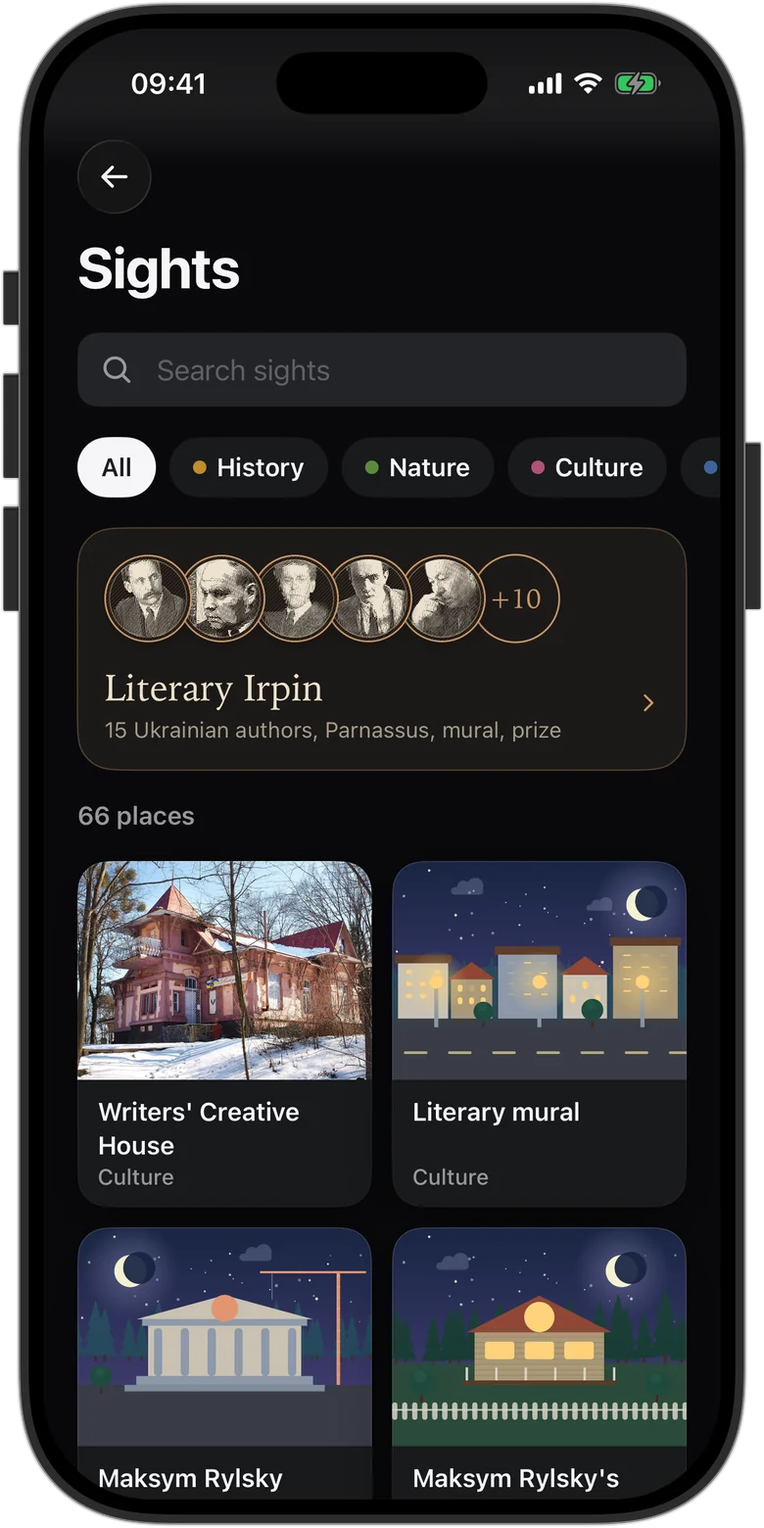
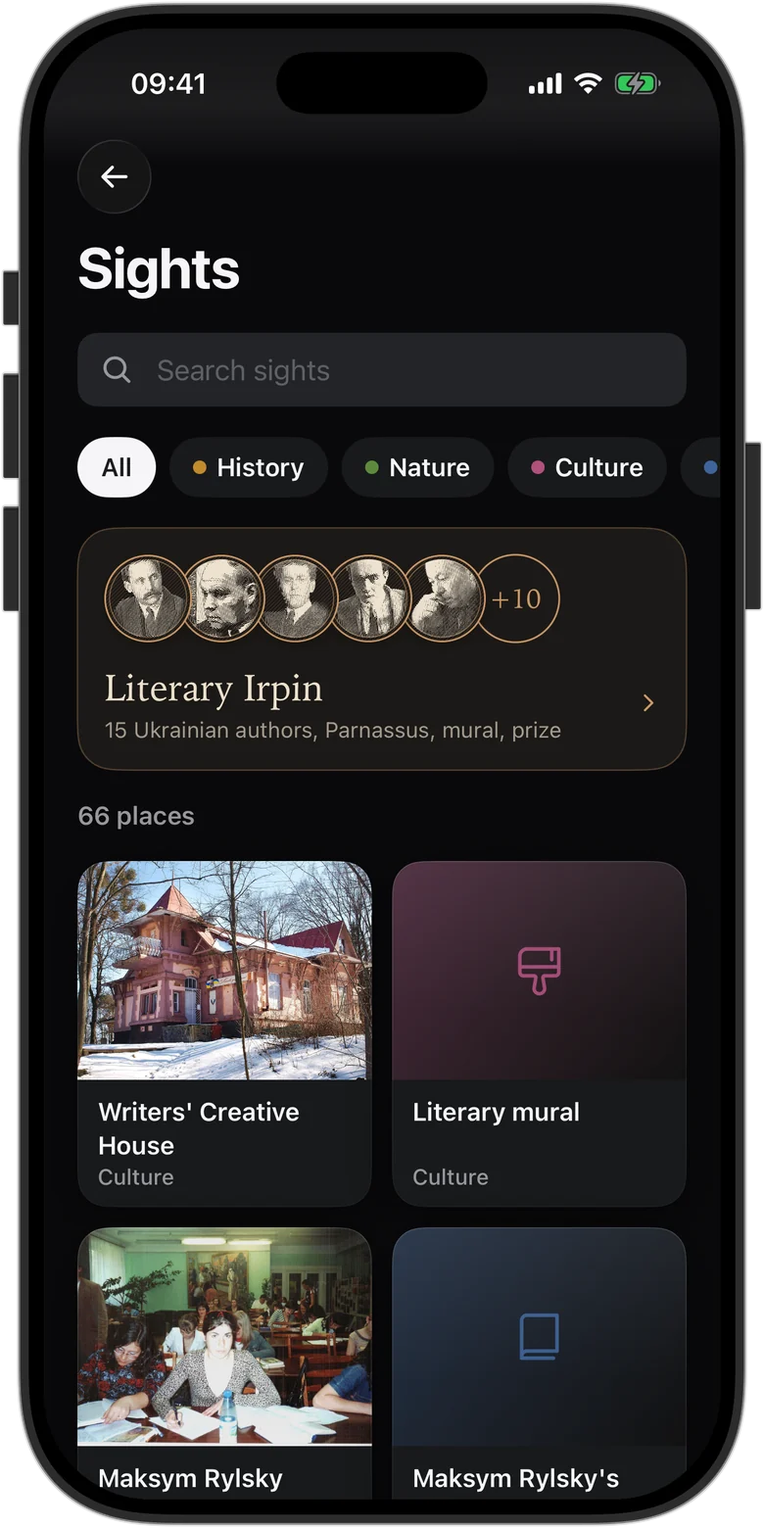
Irpin City page: replace the illustrated mural screen with a real-photo place page; refreshed sights

Changed region(s): [[0.0923, 0.8, 0.9231, 0.9538], [0.4923, 0.5538, 0.9231, 0.7077]]

diff --git a/irpin/uk/index.html b/irpin/uk/index.html
@@ -64,7 +64,7 @@
   </section>
   <ul class="facts"><li><b>451</b>місце на мапі</li><li><b>50</b>піших і веломаршрутів</li><li><b>72</b>номери телефонів</li><li><b>12</b>покрокових довідок про держпослуги</li><li><b>15</b>письменників із лонгридами</li><li><b>0</b>трекерів</li></ul>
   <section class="feature"><div class="pic"><img class="phone" src="/irpin/img/uk/today.webp" alt="Головна" width="780" height="1560" loading="lazy" decoding="async"></div><div class="txt"><p class="eyebrow">Головна</p><h2>Ваш ранок на одному екрані.</h2><p class="intro">Чотири живі віджети поверх нічної мапи Ірпеня: найближча електричка, наскільки людно в місті, найближче укриття й ваша черга світла. Під ними - що поруч із вами просто зараз.</p><dl><div><dt>Електричка</dt><dd>Відправлення до Києва з відліком і ціною, від 30 ₴. Один дотик відкриває бронювання.</dd></div><div><dt>Відчинені заклади</dt><dd>Скільки місць працює зараз і крива дня, з якої видно, коли в місті людно.</dd></div><div><dt>Найближче укриття</dt><dd>Відстань і адреса найближчого укриття та піший маршрут до нього.</dd></div><div><dt>Поруч</dt><dd>Найближчі аптека, банкомат, поштомат і відділення Нової пошти, питна вода.</dd></div></dl></div></section><section class="feature flip"><div class="pic"><img class="phone" src="/irpin/img/uk/map.webp" alt="Мапа" width="780" height="1560" loading="lazy" decoding="async"></div><div class="txt"><p class="eyebrow">Мапа</p><h2>Мапа, що показує лише те, що треба.</h2><p class="intro">Спокійна нічна мапа на OpenStreetMap і MapLibre. Будинки підняті за поверховістю, шари вмикаються й вимикаються, а вибране місце відкривається карткою, не залишаючи мапу.</p><dl><div><dt>Поверховість</dt><dd>Кожен будинок у 3D і в кольорі за кількістю поверхів, від 1 до 17 і вище.</dd></div><div><dt>Укриття й зупинки</dt><dd>Скупчення укриттів, зупинки маршруток і вокзал із відстанню від вас.</dd></div><div><dt>Відчинено зараз</dt><dd>Фільтр 451 закладу за категорією й тим, що працює цієї хвилини, або пошук за вулицею.</dd></div><div><dt>Ваш вигляд</dt><dd>Тема кольорів, густота підписів і тон будинків. Тайли зберігаються для роботи без зв&#x27;язку.</dd></div></dl></div></section><section class="feature pair"><div class="pic"><img class="phone" src="/irpin/img/uk/transport.webp" alt="Транспорт" width="780" height="1560" loading="lazy" decoding="async"><img class="phone second" src="/irpin/img/uk/route.webp" alt="Транспорт" width="780" height="1560" loading="lazy" decoding="async"></div><div class="txt"><p class="eyebrow">Транспорт</p><h2>Електрички й маршрутки з чесним часом.</h2><p class="intro">Чинні розклади, траси на мапі й оцінка часу до кожної зупинки. Оцінка спирається на середню швидкість рейсу й кількість зупинок, тож не обіцяє того, чого не дасть дорога.</p><dl><div><dt>Електрички</dt><dd>Відправлення з Ірпеня з відліком і нагадуваннями. Бронювання Укрзалізниці відкривається з Ірпенем, Києвом-Пасажирським і датою, уже заповненими.</dd></div><div><dt>Маршрутки</dt><dd>392, 395, 100, 6616 та інші до Києва, Бучі й Гостомеля: інтервал, ціна, довжина, зупинки й час у дорозі.</dd></div><div><dt>Зараз поруч</dt><dd>Найближча зупинка й найближчі відправлення з неї, без розкладу.</dd></div><div><dt>Метро Києва</dt><dd>Схема ліній і сповіщення про зміни руху, щоб знати до пересадки.</dd></div></dl></div></section><section class="feature flip"><div class="pic"><img class="phone" src="/irpin/img/uk/wallet.webp" alt="Гаманець і комуналка" width="780" height="1560" loading="lazy" decoding="async"></div><div class="txt"><p class="eyebrow">Гаманець і комуналка</p><h2>Папери вашого дому - в телефоні.</h2><p class="intro">Рахунки, лічильники й документи в одному місці, під Face ID і без відправлення будь-куди. Застосунок рахує, скільки ви винні цього місяця, з ваших показників і чинних тарифів міста.</p><dl><div><dt>Сума за місяць</dt><dd>Світло 4,32 ₴ за кВт·год (2,16 вночі), газ 7,96 ₴ за м³, вода й водовідведення 82,42 ₴ за м³, опалення й сміття.</dd></div><div><dt>Показники й оплати</dt><dd>Нагадування про вікно показників і строк оплати, журнал платежів і графік за пів року. Особові рахунки копіюються одним дотиком.</dd></div><div><dt>Документи</dt><dd>Паспорт, посвідчення водія, страховка: строки дії з нагадуваннями за 30, 7 і 1 день.</dd></div><div><dt>Дім і екстрена картка</dt><dd>Адреса, під&#x27;їзд, найближче укриття й поштомат; медична картка й контакти; авто зі строками страховки й техогляду.</dd></div></dl></div></section><section class="feature"><div class="pic"><img class="phone" src="/irpin/img/uk/services.webp" alt="Держпослуги" width="780" height="1560" loading="lazy" decoding="async"></div><div class="txt"><p class="eyebrow">Держпослуги</p><h2>Документи без здогадок.</h2><p class="intro">ЦНАП міста зі статусом роботи наживо й довідки про те, куди йти, що взяти й що можна зробити онлайн.</p><dl><div><dt>ЦНАП</dt><dd>Відчинено чи зачинено зараз і скільки до закриття, адреса, години й електронна черга.</dd></div><div><dt>12 життєвих ситуацій</dt><dd>Реєстрація, нерухомість, ФОП, народження дитини, статус ВПО, пенсія: установа, зал і телефон, перелік документів.</dd></div><div><dt>Довідник номерів</dt><dd>72 номери: екстрені служби, установи міста й комунальники, а також ваші власні. Кожен дзвінок просить підтвердження.</dd></div><div><dt>Місто</dt><dd>61 житловий комплекс із будинками, поверхами й під&#x27;їздами та тим, що поруч пішки.</dd></div></dl></div></section><section class="feature flip"><div class="pic"><img class="phone" src="/irpin/img/uk/nav.webp" alt="Прогулянки й велотраси" width="780" height="1560" loading="lazy" decoding="async"></div><div class="txt"><p class="eyebrow">Прогулянки й велотраси</p><h2>50 маршрутів із навігацією.</h2><p class="intro">47 прогулянок і 3 велотраси Ірпенем, уздовж річки й у ліс, з навігацією поворот за поворотом, що працює й на заблокованому екрані.</p><dl><div><dt>Перед виходом</dt><dd>Відстань, час, профіль висот, покриття й питна вода по дорозі.</dd></div><div><dt>У дорозі</dt><dd>Підказки про поворот із відстанню, голос за бажанням, скільки лишилось, час у дорозі й прибуття.</dd></div><div><dt>Експорт GPX</dt><dd>Будь-який маршрут - на годинник чи в інший застосунок.</dd></div><div><dt>Місця на маршруті</dt><dd>66 пам&#x27;яток із фото й короткою історією, пов&#x27;язаних між собою й з маршрутами.</dd></div></dl></div></section><section class="feature pair"><div class="pic"><img class="phone" src="/irpin/img/uk/writers.webp" alt="Літературний Ірпінь" width="780" height="1560" loading="lazy" decoding="async"><img class="phone second" src="/irpin/img/uk/writer.webp" alt="Літературний Ірпінь" width="780" height="1560" loading="lazy" decoding="async"></div><div class="txt"><p class="eyebrow">Літературний Ірпінь</p><h2>Місто, у якому писали класики.</h2><p class="intro">З 1936 року в Ірпені серед сосен діє Будинок творчості, де працювали Рильський, Тичина, Стельмах і Довженко. Застосунок розповідає про 15 письменників, які тут жили й писали, із джерелами.</p><dl><div><dt>Автор дня</dt><dd>Щодня новий ірпінський літератор на головному екрані: портрет-гравюра, підпис і перехід до його місця на мапі.</dd></div><div><dt>Лонгріди</dt><dd>Життєпис розділами про кожного з 15 письменників, цитата з джерелом і те, що пов&#x27;язує їх з Ірпенем.</dd></div><div><dt>Літературна прогулянка</dt><dd>Маршрут повз Будинок творчості, бібліотеку й мурал чотирнадцяти класиків, з місцями письменників по дорозі.</dd></div><div><dt>Віджети</dt><dd>Автор дня віджетом на головному екрані, у трьох розмірах.</dd></div></dl></div></section>
-  <section class="block tour-wrap"><h2>Придивитись ближче</h2><p class="intro">Кілька екранів докладно: що на них є і навіщо вони.</p><div class="tour"><article class="tour-card"><img class="phone" src="/irpin/img/uk/place-bridge.webp" alt="Місце з історією" width="780" height="1560" loading="lazy" decoding="async"><div><h3>Місце з історією</h3><p>Кожна пам&#x27;ятка має фото з ліцензією, головні факти й коротку історію. Ця розповідає, як у лютому 2022 року тисячі людей виходили з міста пішки під зруйнованими прольотами Романівського мосту. Підкреслені слова ведуть до сусідніх місць і маршрутів.</p></div></article><article class="tour-card"><img class="phone" src="/irpin/img/uk/place-mural.webp" alt="Один стіл, чотирнадцять класиків" width="780" height="1560" loading="lazy" decoding="async"><div><h3>Один стіл, чотирнадцять класиків</h3><p>Літературний мурал зображає 14 українських класиків за одним столом. Їхні імена в тексті - посилання: торкніться Олеся Гончара чи Ліни Костенко, і потрапите на їхні сторінки.</p></div></article><article class="tour-card"><img class="phone" src="/irpin/img/uk/place-station.webp" alt="Звідки почався Ірпінь" width="780" height="1560" loading="lazy" decoding="async"><div><h3>Звідки почався Ірпінь</h3><p>Місто виросло навколо залізничної зупинки наприкінці XIX століття. На сторінці - які міста на лінії, скільки йде електричка до Київ-Пасажирського (37-59 хвилин) і скільки коштує квиток, від 30 ₴.</p></div></article><article class="tour-card"><img class="phone" src="/irpin/img/uk/map-mural.webp" alt="Мапа й картка" width="780" height="1560" loading="lazy" decoding="async"><div><h3>Мапа й картка</h3><p>Торкніться місця, і знизу виїжджає картка з категорією, фото й відстанню, а мапа лишається на місці. Угорі - фільтри: усі заклади, відчинено, кава.</p></div></article><article class="tour-card"><img class="phone" src="/irpin/img/uk/route-395.webp" alt="Маршрутка без прикрас" width="780" height="1560" loading="lazy" decoding="async"><div><h3>Маршрутка без прикрас</h3><p>Інтервал, вартість, довжина, кількість зупинок і час у дорозі: застосунок рахує його за середньою швидкістю й одразу каже, що це оцінка. Маршрут і кожна зупинка намальовані на мапі.</p></div></article><article class="tour-card"><img class="phone" src="/irpin/img/uk/walk-literary.webp" alt="Прогулянка: Літературний Ірпінь" width="780" height="1560" loading="lazy" decoding="async"><div><h3>Прогулянка: Літературний Ірпінь</h3><p>2,2 км, близько 30 хвилин, легко. Маршрут веде від Будинку творчості через парк письменників на набережну. Профіль висот, пронумеровані місця на мапі й навігація поворот за поворотом.</p></div></article><article class="tour-card"><img class="phone" src="/irpin/img/uk/walk-battle.webp" alt="Прогулянка: Битва за Ірпінь" width="780" height="1560" loading="lazy" decoding="async"><div><h3>Прогулянка: Битва за Ірпінь</h3><p>Меморіальний маршрут повз місця, де в березні 2022 року тримали оборону Київщини: пам&#x27;ятний знак, танк Т-34 і братські могили. 1,5 км, близько 20 хвилин, із профілем висот.</p></div></article><article class="tour-card"><img class="phone" src="/irpin/img/uk/sights.webp" alt="66 пам&#x27;яток" width="780" height="1560" loading="lazy" decoding="async"><div><h3>66 пам&#x27;яток</h3><p>Фільтри за історією, природою чи культурою. Угорі - «Літературний Ірпінь»: 15 українських авторів, Парнас, мурал і премія. Кожна плитка відкриває місце з фото й історією.</p></div></article><article class="tour-card"><img class="phone" src="/irpin/img/uk/writer-stelmakh.webp" alt="Письменник, якого можна читати" width="780" height="1560" loading="lazy" decoding="async"><div><h3>Письменник, якого можна читати</h3><p>Портрет-гравюра, коротка довідка й лонгрід розділами. Михайло Стельмах, що народився в селі Дяківці, написав «Велику рідню» і «Правду і кривду» й жив в Ірпені з початку 1950-х до смерті.</p></div></article><article class="tour-card"><img class="phone" src="/irpin/img/uk/widgets.webp" alt="На головному екрані" width="780" height="1560" loading="lazy" decoding="async"><div><h3>На головному екрані</h3><p>Віджет «Автор дня» у трьох розмірах: портрет, ім&#x27;я, рядок про зв&#x27;язок з Ірпенем. Щодня новий письменник, а дотик відкриває його сторінку в застосунку.</p></div></article><article class="tour-card"><img class="phone" src="/irpin/img/uk/svc-city.webp" alt="Місто в цифрах" width="780" height="1560" loading="lazy" decoding="async"><div><h3>Місто в цифрах</h3><p>Населення, рік отримання статусу міста (1956), звання міста-героя (2022), райони та 61 житловий комплекс з пошуком і сортуванням: будинки, поверхи, під&#x27;їзди й що поруч пішки.</p></div></article><article class="tour-card"><img class="phone" src="/irpin/img/uk/svc-official.webp" alt="Держпослуги без здогадок" width="780" height="1560" loading="lazy" decoding="async"><div><h3>Держпослуги без здогадок</h3><p>Центр надання адміністративних послуг із живим статусом і кнопкою електронної черги. Нижче - життєві ситуації: прописка, нерухомість і земля, власна справа, народження дитини. Кожна каже, куди йти й що взяти.</p></div></article><article class="tour-card"><img class="phone" src="/irpin/img/uk/svc-phones.webp" alt="Довідник телефонів завжди під рукою" width="780" height="1560" loading="lazy" decoding="async"><div><h3>Довідник телефонів завжди під рукою</h3><p>72 номери: екстрені червоним угорі (112, 103, 102), далі міські служби, комунальники й ваші власні. Кожен дзвінок просить підтвердження, щоб не набрати випадково.</p></div></article><article class="tour-card"><img class="phone" src="/irpin/img/uk/svc-venues.webp" alt="451 місце в цифрах" width="780" height="1560" loading="lazy" decoding="async"><div><h3>451 місце в цифрах</h3><p>Заклади за категоріями з кількістю (кава 61, їжа 42, аптеки 53), скільки відчинено просто зараз і в скількох вказано години роботи. Дані - OpenStreetMap, і помилку можна виправити просто із застосунку.</p></div></article><article class="tour-card"><img class="phone" src="/irpin/img/uk/svc-trails.webp" alt="Маршрути за типом і відстанню" width="780" height="1560" loading="lazy" decoding="async"><div><h3>Маршрути за типом і відстанню</h3><p>20 км велодоріжок: 17 веломаршрутів і 33 піших. Фільтр за покриттям, велодоріжкою чи лісом або сортування за найближчими: кожна картка з мапою, довжиною й часом.</p></div></article></div></section>
+  <section class="block tour-wrap"><h2>Придивитись ближче</h2><p class="intro">Кілька екранів докладно: що на них є і навіщо вони.</p><div class="tour"><article class="tour-card"><img class="phone" src="/irpin/img/uk/place-bridge.webp" alt="Місце з історією" width="780" height="1560" loading="lazy" decoding="async"><div><h3>Місце з історією</h3><p>Кожна пам&#x27;ятка має фото з ліцензією, головні факти й коротку історію. Ця розповідає, як у лютому 2022 року тисячі людей виходили з міста пішки під зруйнованими прольотами Романівського мосту. Підкреслені слова ведуть до сусідніх місць і маршрутів.</p></div></article><article class="tour-card"><img class="phone" src="/irpin/img/uk/place-church.webp" alt="Справжні фото, з авторами" width="780" height="1560" loading="lazy" decoding="async"><div><h3>Справжні фото, з авторами</h3><p>Церкви, парки, пам&#x27;ятники й меморіали - з відкритими фотографіями з Вікісховища. Автора й ліцензію підписано просто на знімку, а нижче - адреса, громада та час від вас пішки, велосипедом і авто.</p></div></article><article class="tour-card"><img class="phone" src="/irpin/img/uk/place-station.webp" alt="Звідки почався Ірпінь" width="780" height="1560" loading="lazy" decoding="async"><div><h3>Звідки почався Ірпінь</h3><p>Місто виросло навколо залізничної зупинки наприкінці XIX століття. На сторінці - які міста на лінії, скільки йде електричка до Київ-Пасажирського (37-59 хвилин) і скільки коштує квиток, від 30 ₴.</p></div></article><article class="tour-card"><img class="phone" src="/irpin/img/uk/map-mural.webp" alt="Мапа й картка" width="780" height="1560" loading="lazy" decoding="async"><div><h3>Мапа й картка</h3><p>Торкніться місця, і знизу виїжджає картка з категорією, фото й відстанню, а мапа лишається на місці. Угорі - фільтри: усі заклади, відчинено, кава.</p></div></article><article class="tour-card"><img class="phone" src="/irpin/img/uk/route-395.webp" alt="Маршрутка без прикрас" width="780" height="1560" loading="lazy" decoding="async"><div><h3>Маршрутка без прикрас</h3><p>Інтервал, вартість, довжина, кількість зупинок і час у дорозі: застосунок рахує його за середньою швидкістю й одразу каже, що це оцінка. Маршрут і кожна зупинка намальовані на мапі.</p></div></article><article class="tour-card"><img class="phone" src="/irpin/img/uk/walk-literary.webp" alt="Прогулянка: Літературний Ірпінь" width="780" height="1560" loading="lazy" decoding="async"><div><h3>Прогулянка: Літературний Ірпінь</h3><p>2,2 км, близько 30 хвилин, легко. Маршрут веде від Будинку творчості через парк письменників на набережну. Профіль висот, пронумеровані місця на мапі й навігація поворот за поворотом.</p></div></article><article class="tour-card"><img class="phone" src="/irpin/img/uk/walk-battle.webp" alt="Прогулянка: Битва за Ірпінь" width="780" height="1560" loading="lazy" decoding="async"><div><h3>Прогулянка: Битва за Ірпінь</h3><p>Меморіальний маршрут повз місця, де в березні 2022 року тримали оборону Київщини: пам&#x27;ятний знак, танк Т-34 і братські могили. 1,5 км, близько 20 хвилин, із профілем висот.</p></div></article><article class="tour-card"><img class="phone" src="/irpin/img/uk/sights.webp" alt="66 пам&#x27;яток" width="780" height="1560" loading="lazy" decoding="async"><div><h3>66 пам&#x27;яток</h3><p>Фільтри за історією, природою чи культурою. Угорі - «Літературний Ірпінь»: 15 українських авторів, Парнас, мурал і премія. Кожна плитка відкриває місце з фото й історією.</p></div></article><article class="tour-card"><img class="phone" src="/irpin/img/uk/writer-stelmakh.webp" alt="Письменник, якого можна читати" width="780" height="1560" loading="lazy" decoding="async"><div><h3>Письменник, якого можна читати</h3><p>Портрет-гравюра, коротка довідка й лонгрід розділами. Михайло Стельмах, що народився в селі Дяківці, написав «Велику рідню» і «Правду і кривду» й жив в Ірпені з початку 1950-х до смерті.</p></div></article><article class="tour-card"><img class="phone" src="/irpin/img/uk/widgets.webp" alt="На головному екрані" width="780" height="1560" loading="lazy" decoding="async"><div><h3>На головному екрані</h3><p>Віджет «Автор дня» у трьох розмірах: портрет, ім&#x27;я, рядок про зв&#x27;язок з Ірпенем. Щодня новий письменник, а дотик відкриває його сторінку в застосунку.</p></div></article><article class="tour-card"><img class="phone" src="/irpin/img/uk/svc-city.webp" alt="Місто в цифрах" width="780" height="1560" loading="lazy" decoding="async"><div><h3>Місто в цифрах</h3><p>Населення, рік отримання статусу міста (1956), звання міста-героя (2022), райони та 61 житловий комплекс з пошуком і сортуванням: будинки, поверхи, під&#x27;їзди й що поруч пішки.</p></div></article><article class="tour-card"><img class="phone" src="/irpin/img/uk/svc-official.webp" alt="Держпослуги без здогадок" width="780" height="1560" loading="lazy" decoding="async"><div><h3>Держпослуги без здогадок</h3><p>Центр надання адміністративних послуг із живим статусом і кнопкою електронної черги. Нижче - життєві ситуації: прописка, нерухомість і земля, власна справа, народження дитини. Кожна каже, куди йти й що взяти.</p></div></article><article class="tour-card"><img class="phone" src="/irpin/img/uk/svc-phones.webp" alt="Довідник телефонів завжди під рукою" width="780" height="1560" loading="lazy" decoding="async"><div><h3>Довідник телефонів завжди під рукою</h3><p>72 номери: екстрені червоним угорі (112, 103, 102), далі міські служби, комунальники й ваші власні. Кожен дзвінок просить підтвердження, щоб не набрати випадково.</p></div></article><article class="tour-card"><img class="phone" src="/irpin/img/uk/svc-venues.webp" alt="451 місце в цифрах" width="780" height="1560" loading="lazy" decoding="async"><div><h3>451 місце в цифрах</h3><p>Заклади за категоріями з кількістю (кава 61, їжа 42, аптеки 53), скільки відчинено просто зараз і в скількох вказано години роботи. Дані - OpenStreetMap, і помилку можна виправити просто із застосунку.</p></div></article><article class="tour-card"><img class="phone" src="/irpin/img/uk/svc-trails.webp" alt="Маршрути за типом і відстанню" width="780" height="1560" loading="lazy" decoding="async"><div><h3>Маршрути за типом і відстанню</h3><p>20 км велодоріжок: 17 веломаршрутів і 33 піших. Фільтр за покриттям, велодоріжкою чи лісом або сортування за найближчими: кожна картка з мапою, довжиною й часом.</p></div></article></div></section>
   <section class="band"><h2>Тривоги й світло</h2><div class="cols"><div><h3>Повітряна тривога</h3><p>Стан у громаді Ірпеня, сповіщення про тривогу й відбій, найближче укриття з маршрутом і скільки тривали тривоги сьогодні й останніми тижнями. Сповіщення - лише зручність: завжди орієнтуйтесь на сирени.</p></div><div><h3>Відключення світла</h3><p>Графік ДТЕК Київщини для вашої підчерги, від 1.1 до 6.2. Оголошені відключення на сьогодні й завтра, тижневий шаблон можливих, 48 півгодинних слотів і нагадування за 30 хвилин до вимкнення.</p></div></div></section>
   <section class="block gallery-wrap"><h2>Екрани</h2><div class="gallery"><figure><img class="phone" src="/irpin/img/uk/today.webp" alt="Головна" width="780" height="1560" loading="lazy" decoding="async"><figcaption>Головна</figcaption></figure><figure><img class="phone" src="/irpin/img/uk/map.webp" alt="Мапа" width="780" height="1560" loading="lazy" decoding="async"><figcaption>Мапа</figcaption></figure><figure><img class="phone" src="/irpin/img/uk/transport.webp" alt="Транспорт" width="780" height="1560" loading="lazy" decoding="async"><figcaption>Транспорт</figcaption></figure><figure><img class="phone" src="/irpin/img/uk/route.webp" alt="Маршрутка" width="780" height="1560" loading="lazy" decoding="async"><figcaption>Маршрутка</figcaption></figure><figure><img class="phone" src="/irpin/img/uk/wallet.webp" alt="Гаманець" width="780" height="1560" loading="lazy" decoding="async"><figcaption>Гаманець</figcaption></figure><figure><img class="phone" src="/irpin/img/uk/services.webp" alt="Послуги" width="780" height="1560" loading="lazy" decoding="async"><figcaption>Послуги</figcaption></figure><figure><img class="phone" src="/irpin/img/uk/nav.webp" alt="Навігація" width="780" height="1560" loading="lazy" decoding="async"><figcaption>Навігація</figcaption></figure><figure><img class="phone" src="/irpin/img/uk/writers.webp" alt="Літературний Ірпінь" width="780" height="1560" loading="lazy" decoding="async"><figcaption>Літературний Ірпінь</figcaption></figure><figure><img class="phone" src="/irpin/img/uk/writer.webp" alt="Письменник" width="780" height="1560" loading="lazy" decoding="async"><figcaption>Письменник</figcaption></figure><figure><img class="phone" src="/irpin/img/uk/place.webp" alt="Місце" width="780" height="1560" loading="lazy" decoding="async"><figcaption>Місце</figcaption></figure></div></section>
   <section class="block"><h2>Приватність за задумом</h2><div class="cols cols3"><div><h3>Без акаунтів</h3><p>Входити нікуди не треба. Застосунок працює без реєстрації.</p></div><div><h3>Дані лишаються на телефоні</h3><p>Документи, лічильники, адреса й екстрена картка нікуди не надсилаються. Розробник їх не бачить.</p></div><div><h3>Без реклами й стеження</h3><p>Без аналітики, рекламних ідентифікаторів і сторонніх трекерів.</p></div></div></section>

diff --git a/irpin/index.html b/irpin/index.html
@@ -64,7 +64,7 @@
   </section>
   <ul class="facts"><li><b>451</b>venues and offices on the map</li><li><b>50</b>walking and bike routes</li><li><b>72</b>phone numbers</li><li><b>12</b>step-by-step public service guides</li><li><b>15</b>writers with long reads</li><li><b>0</b>trackers</li></ul>
   <section class="feature"><div class="pic"><img class="phone" src="/irpin/img/en/today.webp" alt="Home screen" width="780" height="1560" loading="lazy" decoding="async"></div><div class="txt"><p class="eyebrow">Home screen</p><h2>Your morning, on one screen.</h2><p class="intro">Four live widgets over a night map of Irpin: the next train, how busy the town is, the nearest shelter and your power queue. Below them is what is close to you right now.</p><dl><div><dt>Next train</dt><dd>Departure to Kyiv with a countdown and the fare, from 30 ₴. One tap opens the booking.</dd></div><div><dt>Open venues</dt><dd>How many places are open now, with a curve of the day that shows when the town gets busy.</dd></div><div><dt>Nearest shelter</dt><dd>Distance and address of the closest shelter, and the walking route to it.</dd></div><div><dt>Nearby</dt><dd>The closest pharmacy, ATM, Nova Poshta locker and branch, and drinking water.</dd></div></dl></div></section><section class="feature flip"><div class="pic"><img class="phone" src="/irpin/img/en/map.webp" alt="Map" width="780" height="1560" loading="lazy" decoding="async"></div><div class="txt"><p class="eyebrow">Map</p><h2>A map that shows only what you ask for.</h2><p class="intro">A quiet night map built on OpenStreetMap and MapLibre. Buildings are raised by floor count, layers switch on and off, and a selected place opens in a card without leaving the map.</p><dl><div><dt>Building heights</dt><dd>Every building in 3D and coloured by its number of floors, from 1 to 17 and above.</dd></div><div><dt>Shelters and stops</dt><dd>Shelter clusters, minibus stops and the station, with the distance from you.</dd></div><div><dt>Open now</dt><dd>Filter 451 venues by category and by what is open at this minute, or search by street.</dd></div><div><dt>Your style</dt><dd>Colour theme, label density and building tone. Tiles are cached for use without a connection.</dd></div></dl></div></section><section class="feature pair"><div class="pic"><img class="phone" src="/irpin/img/en/transport.webp" alt="Transport" width="780" height="1560" loading="lazy" decoding="async"><img class="phone second" src="/irpin/img/en/route.webp" alt="Transport" width="780" height="1560" loading="lazy" decoding="async"></div><div class="txt"><p class="eyebrow">Transport</p><h2>Trains and minibuses, with honest times.</h2><p class="intro">Current timetables, routes drawn on the map and a time estimate for every stop. The estimate uses the average trip speed and the number of stops, so it does not promise what the road cannot give.</p><dl><div><dt>Trains</dt><dd>Departures from Irpin with a countdown and reminders. The Ukrzaliznytsia booking opens with Irpin, Kyiv-Pasazhyrskyi and the date already filled in.</dd></div><div><dt>Minibuses</dt><dd>392, 395, 100, 6616 and other routes to Kyiv, Bucha and Hostomel: interval, fare, length, stops and travel time.</dd></div><div><dt>Near you now</dt><dd>The closest stop and the next departures from it, without opening a timetable.</dd></div><div><dt>Kyiv metro</dt><dd>The line map and service-change notices, so you know before you transfer.</dd></div></dl></div></section><section class="feature flip"><div class="pic"><img class="phone" src="/irpin/img/en/wallet.webp" alt="Wallet and utilities" width="780" height="1560" loading="lazy" decoding="async"></div><div class="txt"><p class="eyebrow">Wallet and utilities</p><h2>Your home’s paperwork, on the phone.</h2><p class="intro">Bills, meters and documents in one place, locked with Face ID and never sent anywhere. The app works out what you owe this month from your readings and the town’s current tariffs.</p><dl><div><dt>Utility estimate</dt><dd>Electricity 4.32 ₴ per kWh (2.16 at night), gas 7.96 ₴ per m³, water and sewerage 82.42 ₴ per m³, heating and waste.</dd></div><div><dt>Readings and payments</dt><dd>Reminders for the reading window and the payment deadline, a payment log and a six-month chart. Account numbers copy in one tap.</dd></div><div><dt>Documents</dt><dd>Passport, driving licence, insurance: expiry dates with reminders 30, 7 and 1 day before.</dd></div><div><dt>Home and emergency card</dt><dd>Address, entrance, nearest shelter and parcel locker; a medical card and contacts; cars with insurance and inspection dates.</dd></div></dl></div></section><section class="feature"><div class="pic"><img class="phone" src="/irpin/img/en/services.webp" alt="Public services" width="780" height="1560" loading="lazy" decoding="async"></div><div class="txt"><p class="eyebrow">Public services</p><h2>Paperwork without guessing.</h2><p class="intro">The town’s service centre with its live status, and guides that say where to go, what to bring and what can be done online.</p><dl><div><dt>Service centre</dt><dd>Open or closed right now and how long until closing, the address, hours and the online queue.</dd></div><div><dt>12 life situations</dt><dd>Registration, property, sole trader, birth of a child, IDP status, pension: the office, hall and phone, and a document checklist.</dd></div><div><dt>Phone book</dt><dd>72 numbers: emergency services, town offices and utilities, plus your own. Every call asks for confirmation.</dd></div><div><dt>The town</dt><dd>61 residential complexes with buildings, floors and entrances, and what is within walking distance.</dd></div></dl></div></section><section class="feature flip"><div class="pic"><img class="phone" src="/irpin/img/en/nav.webp" alt="Walks and bike routes" width="780" height="1560" loading="lazy" decoding="async"></div><div class="txt"><p class="eyebrow">Walks and bike routes</p><h2>50 routes, with navigation.</h2><p class="intro">47 walks and 3 bike routes through Irpin, along the river and into the forest, with turn-by-turn guidance that keeps working with the screen locked.</p><dl><div><dt>Before you go</dt><dd>Distance, time, elevation profile, surface and drinking water on the way.</dd></div><div><dt>On the way</dt><dd>Turn prompts with distance, optional voice, the distance left, time on the way and arrival.</dd></div><div><dt>GPX export</dt><dd>Send any route to a watch or another app.</dd></div><div><dt>Places on the route</dt><dd>66 sights with photos and short histories, linked to each other and to the routes.</dd></div></dl></div></section><section class="feature pair"><div class="pic"><img class="phone" src="/irpin/img/en/writers.webp" alt="Literary Irpin" width="780" height="1560" loading="lazy" decoding="async"><img class="phone second" src="/irpin/img/en/writer.webp" alt="Literary Irpin" width="780" height="1560" loading="lazy" decoding="async"></div><div class="txt"><p class="eyebrow">Literary Irpin</p><h2>The town the classics wrote in.</h2><p class="intro">From 1936 Irpin had a House of Creativity among the pines, where Rylsky, Tychyna, Stelmakh and Dovzhenko worked. The app tells the story of 15 writers who lived and wrote here, with sources.</p><dl><div><dt>Writer of the day</dt><dd>A new Irpin writer every day on the home screen, with a portrait engraving, a tagline and a link to their place on the map.</dd></div><div><dt>Long reads</dt><dd>A life story in chapters for each of the 15 writers, a quote with its source, and what connects them to Irpin.</dd></div><div><dt>A literary walk</dt><dd>A route past the House of Creativity, the library and the mural of fourteen classics, with the writers’ places on the way.</dd></div><div><dt>Widgets</dt><dd>Writer of the day as a home-screen widget, in three sizes.</dd></div></dl></div></section>
-  <section class="block tour-wrap"><h2>A closer look</h2><p class="intro">A few screens in detail: what is on them and why they are there.</p><div class="tour"><article class="tour-card"><img class="phone" src="/irpin/img/en/place-bridge.webp" alt="A place, with its story" width="780" height="1560" loading="lazy" decoding="async"><div><h3>A place, with its story</h3><p>Every sight has a photo with its licence, facts at a glance and a short history. This one tells how, in February 2022, thousands of people left the town on foot under the ruined spans of the Romanivka Bridge. The underlined words lead to nearby places and routes.</p></div></article><article class="tour-card"><img class="phone" src="/irpin/img/en/place-mural.webp" alt="One table, fourteen classics" width="780" height="1560" loading="lazy" decoding="async"><div><h3>One table, fourteen classics</h3><p>The literary mural shows 14 Ukrainian classics at one table. Their names in the text are links: tap Oles Honchar or Lina Kostenko and you land on their pages.</p></div></article><article class="tour-card"><img class="phone" src="/irpin/img/en/place-station.webp" alt="Where Irpin began" width="780" height="1560" loading="lazy" decoding="async"><div><h3>Where Irpin began</h3><p>The town grew up around a railway stop in the late 19th century. The page says which towns lie on the line, how long the train to Kyiv-Pasazhyrskyi takes (37-59 minutes) and what a ticket costs, from 30 ₴.</p></div></article><article class="tour-card"><img class="phone" src="/irpin/img/en/map-mural.webp" alt="The map and a card" width="780" height="1560" loading="lazy" decoding="async"><div><h3>The map and a card</h3><p>Tap a place and a card slides up from below, with its category, photo and distance, and the map stays where it was. Filters across the top: all venues, open now, coffee.</p></div></article><article class="tour-card"><img class="phone" src="/irpin/img/en/route-395.webp" alt="A minibus route, honestly" width="780" height="1560" loading="lazy" decoding="async"><div><h3>A minibus route, honestly</h3><p>Interval, fare, length, number of stops and the travel time, which the app calculates from average speed and says outright that it is an estimate. The route and every stop are drawn on the map.</p></div></article><article class="tour-card"><img class="phone" src="/irpin/img/en/walk-literary.webp" alt="A walk: Literary Irpin" width="780" height="1560" loading="lazy" decoding="async"><div><h3>A walk: Literary Irpin</h3><p>2.2 km, about 30 minutes, easy. The route runs from the House of Creativity through the writers’ park to the embankment. An elevation profile, numbered places on the map and turn-by-turn guidance.</p></div></article><article class="tour-card"><img class="phone" src="/irpin/img/en/walk-battle.webp" alt="A walk: the Battle for Irpin" width="780" height="1560" loading="lazy" decoding="async"><div><h3>A walk: the Battle for Irpin</h3><p>A memorial route past the places where the defence of Kyiv Oblast was held in March 2022: the memorial sign, the T-34 tank and the mass graves. 1.5 km, about 20 minutes, with an elevation profile.</p></div></article><article class="tour-card"><img class="phone" src="/irpin/img/en/sights.webp" alt="66 sights" width="780" height="1560" loading="lazy" decoding="async"><div><h3>66 sights</h3><p>Filter by history, nature or culture. At the top is Literary Irpin: 15 Ukrainian authors, Parnassus, the mural and the prize. Each tile opens a place with a photo and a story.</p></div></article><article class="tour-card"><img class="phone" src="/irpin/img/en/writer-stelmakh.webp" alt="A writer you can read" width="780" height="1560" loading="lazy" decoding="async"><div><h3>A writer you can read</h3><p>A portrait engraving, a short bio and a long read in chapters. Mykhailo Stelmakh, born in the village of Diakivtsi, wrote “The Great Family” and “Truth and Falsehood” and lived in Irpin from the early 1950s until his death.</p></div></article><article class="tour-card"><img class="phone" src="/irpin/img/en/widgets.webp" alt="On the home screen" width="780" height="1560" loading="lazy" decoding="async"><div><h3>On the home screen</h3><p>The Writer of the Day widget in three sizes: a portrait, a name, a line about their link to Irpin. A new writer every day, and a tap opens their page in the app.</p></div></article><article class="tour-card"><img class="phone" src="/irpin/img/en/svc-city.webp" alt="The town in numbers" width="780" height="1560" loading="lazy" decoding="async"><div><h3>The town in numbers</h3><p>Population, the year Irpin became a town (1956), the Hero City title (2022), the districts, and 61 residential complexes you can search and sort, each with buildings, floors, entrances and what is within walking distance.</p></div></article><article class="tour-card"><img class="phone" src="/irpin/img/en/svc-official.webp" alt="Public services, without guessing" width="780" height="1560" loading="lazy" decoding="async"><div><h3>Public services, without guessing</h3><p>The service centre with its live status and an online queue button. Below it, life situations: registration, property and land, your own business, the birth of a child. Each one says where to go and what to bring.</p></div></article><article class="tour-card"><img class="phone" src="/irpin/img/en/svc-phones.webp" alt="A phone book that is always at hand" width="780" height="1560" loading="lazy" decoding="async"><div><h3>A phone book that is always at hand</h3><p>72 numbers: the emergency ones in red at the top (112, 103, 102), then town offices and utilities, and your own. Every call asks for confirmation, so you do not ring by accident.</p></div></article><article class="tour-card"><img class="phone" src="/irpin/img/en/svc-venues.webp" alt="451 places in numbers" width="780" height="1560" loading="lazy" decoding="async"><div><h3>451 places in numbers</h3><p>Venues by category with counts (coffee 61, food 42, pharmacies 53), how many are open right now and how many have published opening hours. The data is OpenStreetMap, and you can correct it from the app.</p></div></article><article class="tour-card"><img class="phone" src="/irpin/img/en/svc-trails.webp" alt="Routes by type and distance" width="780" height="1560" loading="lazy" decoding="async"><div><h3>Routes by type and distance</h3><p>20 km of cycle paths: 17 bike routes and 33 on foot. Filter by surface, cycle path or forest, or sort by the nearest: each card has a map, length and time.</p></div></article></div></section>
+  <section class="block tour-wrap"><h2>A closer look</h2><p class="intro">A few screens in detail: what is on them and why they are there.</p><div class="tour"><article class="tour-card"><img class="phone" src="/irpin/img/en/place-bridge.webp" alt="A place, with its story" width="780" height="1560" loading="lazy" decoding="async"><div><h3>A place, with its story</h3><p>Every sight has a photo with its licence, facts at a glance and a short history. This one tells how, in February 2022, thousands of people left the town on foot under the ruined spans of the Romanivka Bridge. The underlined words lead to nearby places and routes.</p></div></article><article class="tour-card"><img class="phone" src="/irpin/img/en/place-church.webp" alt="Real photos, with their authors" width="780" height="1560" loading="lazy" decoding="async"><div><h3>Real photos, with their authors</h3><p>Churches, parks, monuments and memorials come with open photographs from Wikimedia Commons. The author and the licence are printed on the picture, and below are the address, the community and the time from you on foot, by bike and by car.</p></div></article><article class="tour-card"><img class="phone" src="/irpin/img/en/place-station.webp" alt="Where Irpin began" width="780" height="1560" loading="lazy" decoding="async"><div><h3>Where Irpin began</h3><p>The town grew up around a railway stop in the late 19th century. The page says which towns lie on the line, how long the train to Kyiv-Pasazhyrskyi takes (37-59 minutes) and what a ticket costs, from 30 ₴.</p></div></article><article class="tour-card"><img class="phone" src="/irpin/img/en/map-mural.webp" alt="The map and a card" width="780" height="1560" loading="lazy" decoding="async"><div><h3>The map and a card</h3><p>Tap a place and a card slides up from below, with its category, photo and distance, and the map stays where it was. Filters across the top: all venues, open now, coffee.</p></div></article><article class="tour-card"><img class="phone" src="/irpin/img/en/route-395.webp" alt="A minibus route, honestly" width="780" height="1560" loading="lazy" decoding="async"><div><h3>A minibus route, honestly</h3><p>Interval, fare, length, number of stops and the travel time, which the app calculates from average speed and says outright that it is an estimate. The route and every stop are drawn on the map.</p></div></article><article class="tour-card"><img class="phone" src="/irpin/img/en/walk-literary.webp" alt="A walk: Literary Irpin" width="780" height="1560" loading="lazy" decoding="async"><div><h3>A walk: Literary Irpin</h3><p>2.2 km, about 30 minutes, easy. The route runs from the House of Creativity through the writers’ park to the embankment. An elevation profile, numbered places on the map and turn-by-turn guidance.</p></div></article><article class="tour-card"><img class="phone" src="/irpin/img/en/walk-battle.webp" alt="A walk: the Battle for Irpin" width="780" height="1560" loading="lazy" decoding="async"><div><h3>A walk: the Battle for Irpin</h3><p>A memorial route past the places where the defence of Kyiv Oblast was held in March 2022: the memorial sign, the T-34 tank and the mass graves. 1.5 km, about 20 minutes, with an elevation profile.</p></div></article><article class="tour-card"><img class="phone" src="/irpin/img/en/sights.webp" alt="66 sights" width="780" height="1560" loading="lazy" decoding="async"><div><h3>66 sights</h3><p>Filter by history, nature or culture. At the top is Literary Irpin: 15 Ukrainian authors, Parnassus, the mural and the prize. Each tile opens a place with a photo and a story.</p></div></article><article class="tour-card"><img class="phone" src="/irpin/img/en/writer-stelmakh.webp" alt="A writer you can read" width="780" height="1560" loading="lazy" decoding="async"><div><h3>A writer you can read</h3><p>A portrait engraving, a short bio and a long read in chapters. Mykhailo Stelmakh, born in the village of Diakivtsi, wrote “The Great Family” and “Truth and Falsehood” and lived in Irpin from the early 1950s until his death.</p></div></article><article class="tour-card"><img class="phone" src="/irpin/img/en/widgets.webp" alt="On the home screen" width="780" height="1560" loading="lazy" decoding="async"><div><h3>On the home screen</h3><p>The Writer of the Day widget in three sizes: a portrait, a name, a line about their link to Irpin. A new writer every day, and a tap opens their page in the app.</p></div></article><article class="tour-card"><img class="phone" src="/irpin/img/en/svc-city.webp" alt="The town in numbers" width="780" height="1560" loading="lazy" decoding="async"><div><h3>The town in numbers</h3><p>Population, the year Irpin became a town (1956), the Hero City title (2022), the districts, and 61 residential complexes you can search and sort, each with buildings, floors, entrances and what is within walking distance.</p></div></article><article class="tour-card"><img class="phone" src="/irpin/img/en/svc-official.webp" alt="Public services, without guessing" width="780" height="1560" loading="lazy" decoding="async"><div><h3>Public services, without guessing</h3><p>The service centre with its live status and an online queue button. Below it, life situations: registration, property and land, your own business, the birth of a child. Each one says where to go and what to bring.</p></div></article><article class="tour-card"><img class="phone" src="/irpin/img/en/svc-phones.webp" alt="A phone book that is always at hand" width="780" height="1560" loading="lazy" decoding="async"><div><h3>A phone book that is always at hand</h3><p>72 numbers: the emergency ones in red at the top (112, 103, 102), then town offices and utilities, and your own. Every call asks for confirmation, so you do not ring by accident.</p></div></article><article class="tour-card"><img class="phone" src="/irpin/img/en/svc-venues.webp" alt="451 places in numbers" width="780" height="1560" loading="lazy" decoding="async"><div><h3>451 places in numbers</h3><p>Venues by category with counts (coffee 61, food 42, pharmacies 53), how many are open right now and how many have published opening hours. The data is OpenStreetMap, and you can correct it from the app.</p></div></article><article class="tour-card"><img class="phone" src="/irpin/img/en/svc-trails.webp" alt="Routes by type and distance" width="780" height="1560" loading="lazy" decoding="async"><div><h3>Routes by type and distance</h3><p>20 km of cycle paths: 17 bike routes and 33 on foot. Filter by surface, cycle path or forest, or sort by the nearest: each card has a map, length and time.</p></div></article></div></section>
   <section class="band"><h2>Alerts and power</h2><div class="cols"><div><h3>Air raid alerts</h3><p>The status for the Irpin community, a notification for the alert and the all-clear, the nearest shelter with a route, and how long alerts lasted today and in recent weeks. Notifications are a convenience: always rely on sirens.</p></div><div><h3>Power outages</h3><p>The DTEK Kyiv Oblast schedule for your sub-queue, from 1.1 to 6.2. The announced outages for today and tomorrow, the weekly template of possible ones, 48 half-hour slots and a reminder 30 minutes before the power goes.</p></div></div></section>
   <section class="block gallery-wrap"><h2>Screens</h2><div class="gallery"><figure><img class="phone" src="/irpin/img/en/today.webp" alt="Home" width="780" height="1560" loading="lazy" decoding="async"><figcaption>Home</figcaption></figure><figure><img class="phone" src="/irpin/img/en/map.webp" alt="Map" width="780" height="1560" loading="lazy" decoding="async"><figcaption>Map</figcaption></figure><figure><img class="phone" src="/irpin/img/en/transport.webp" alt="Transport" width="780" height="1560" loading="lazy" decoding="async"><figcaption>Transport</figcaption></figure><figure><img class="phone" src="/irpin/img/en/route.webp" alt="Minibus route" width="780" height="1560" loading="lazy" decoding="async"><figcaption>Minibus route</figcaption></figure><figure><img class="phone" src="/irpin/img/en/wallet.webp" alt="Wallet" width="780" height="1560" loading="lazy" decoding="async"><figcaption>Wallet</figcaption></figure><figure><img class="phone" src="/irpin/img/en/services.webp" alt="Services" width="780" height="1560" loading="lazy" decoding="async"><figcaption>Services</figcaption></figure><figure><img class="phone" src="/irpin/img/en/nav.webp" alt="Navigation" width="780" height="1560" loading="lazy" decoding="async"><figcaption>Navigation</figcaption></figure><figure><img class="phone" src="/irpin/img/en/writers.webp" alt="Literary Irpin" width="780" height="1560" loading="lazy" decoding="async"><figcaption>Literary Irpin</figcaption></figure><figure><img class="phone" src="/irpin/img/en/writer.webp" alt="A writer" width="780" height="1560" loading="lazy" decoding="async"><figcaption>A writer</figcaption></figure><figure><img class="phone" src="/irpin/img/en/place.webp" alt="A place" width="780" height="1560" loading="lazy" decoding="async"><figcaption>A place</figcaption></figure></div></section>
   <section class="block"><h2>Private by design</h2><div class="cols cols3"><div><h3>No accounts</h3><p>There is nothing to sign in to. The app works without registration.</p></div><div><h3>Data stays on your phone</h3><p>Documents, meters, address and the emergency card are never sent anywhere. The developer does not see them.</p></div><div><h3>No ads, no tracking</h3><p>No analytics, no advertising identifiers, no third-party trackers.</p></div></div></section>
